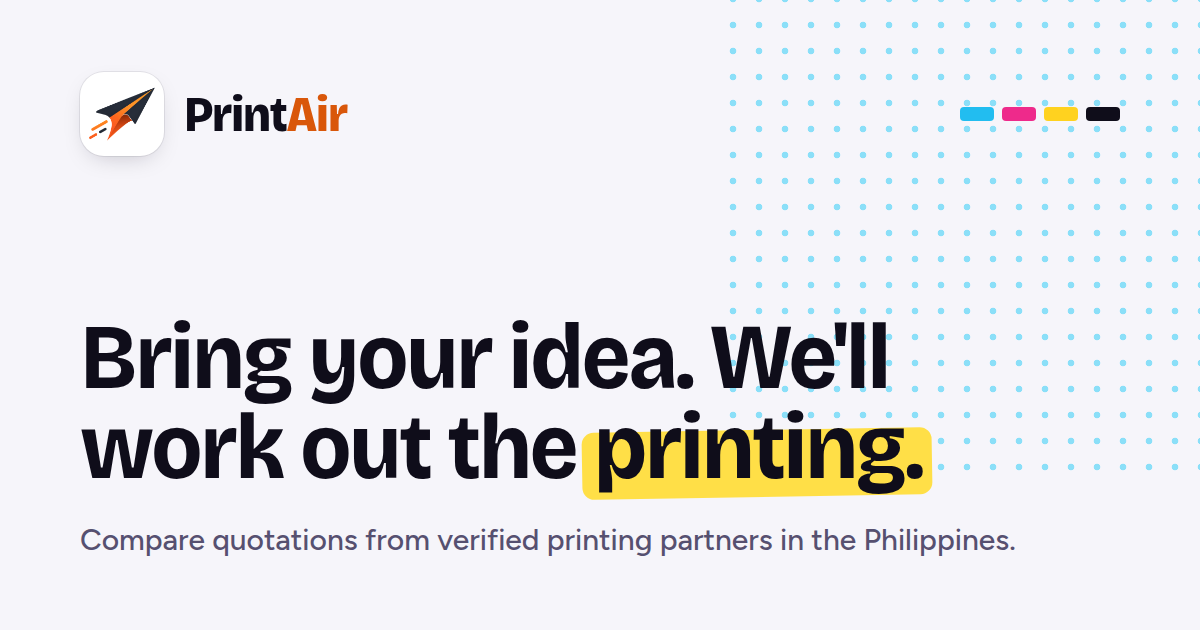
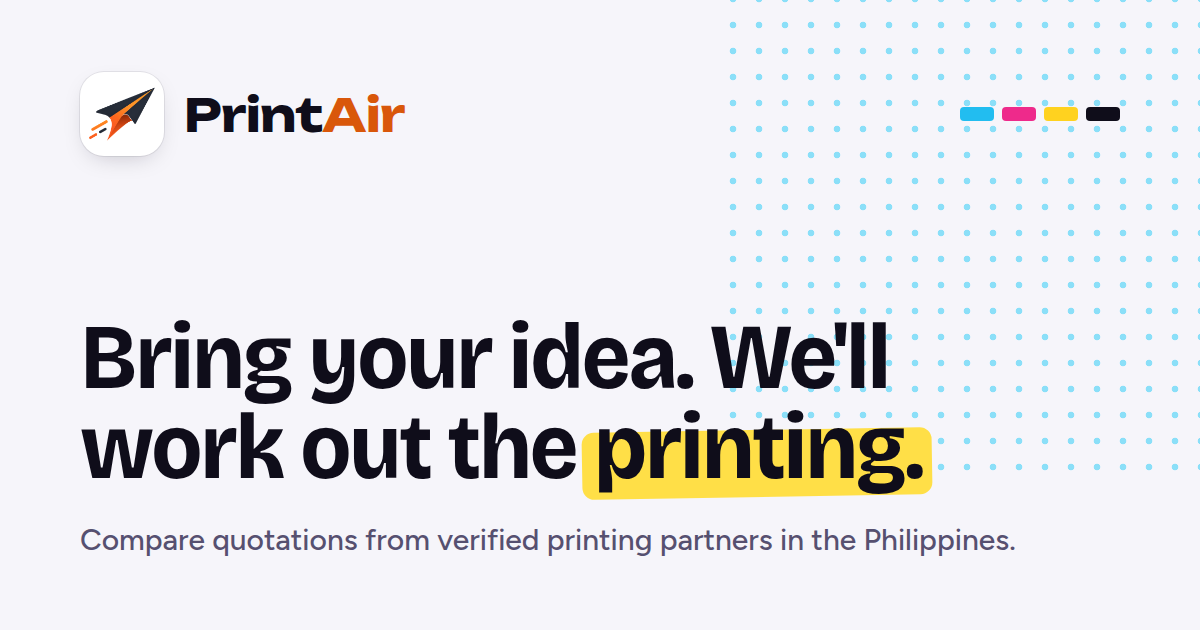
Wordmark: set the "PrintAir" logotype in Unbounded, fixed across both skins
The paper-plane mark is untouched -- only the type beside it changes. Unbounded's
cut corners echo the plane's folded paper better than the headline face did, and
as brand identity rather than a themable surface it now stays the same face under
Classic too, via a --font-wordmark variable declared once on :root and never
redefined in .classic. The share card lockup and preloaded fonts follow suit.

Claude-Session: https://claude.ai/code/session_01RcLXeEYriE6DvdzscKS89R

Changed region(s): [[0.1542, 0.1508, 0.3392, 0.2111]]

diff --git a/brand/share-card.html b/brand/share-card.html
@@ -5,6 +5,8 @@
 <style>
   @font-face { font-family: Bricolage; src: url('../node_modules/@fontsource-variable/bricolage-grotesque/files/bricolage-grotesque-latin-wdth-normal.woff2') format('woff2'); font-weight: 200 800; font-stretch: 75% 100%; }
   @font-face { font-family: Figtree; src: url('../node_modules/@fontsource-variable/figtree/files/figtree-latin-wght-normal.woff2') format('woff2'); font-weight: 300 900; }
+  /* The wordmark's own face (Marks.tsx), fixed across both skins — keep this in sync with it. */
+  @font-face { font-family: Unbounded; src: url('../node_modules/@fontsource-variable/unbounded/files/unbounded-latin-wght-normal.woff2') format('woff2'); font-weight: 200 900; }
   html, body { margin: 0; }
   body { width: 1200px; height: 630px; background: #f6f5fa; position: relative; overflow: hidden; font-family: Figtree, sans-serif; color: #0f0d1a; }
   .dots { position: absolute; right: -40px; top: -40px; width: 520px; height: 520px; background-image: radial-gradient(#7fdcf8 3.2px, transparent 3.6px); background-size: 26px 26px; opacity: .9; }
@@ -12,7 +14,7 @@
   .lockup { display: flex; align-items: center; gap: 20px; }
   .tile { width: 84px; height: 84px; border-radius: 24px; background: #fff; box-shadow: 0 8px 24px -10px rgba(15,13,26,.25), 0 0 0 1px rgba(15,13,26,.08); display: flex; align-items: center; justify-content: center; }
   .tile img { width: 78%; }
-  .word { font-family: Bricolage, sans-serif; font-weight: 800; font-size: 50px; letter-spacing: -0.03em; font-stretch: 88%; }
+  .word { font-family: Unbounded, sans-serif; font-weight: 700; font-size: 46px; letter-spacing: -0.01em; }
   .word span { color: #d9570a; }
   h1 { font-family: Bricolage, sans-serif; font-weight: 700; font-stretch: 92%; font-size: 92px; line-height: .98; letter-spacing: -0.03em; margin: auto 0 0; max-width: 900px; }
   h1 em { font-style: normal; position: relative; white-space: nowrap; }

diff --git a/tailwind.config.js b/tailwind.config.js
@@ -82,6 +82,8 @@ export default {
         display: ['var(--font-display)', 'ui-sans-serif', 'system-ui', 'sans-serif'],
         sans: ['var(--font-sans)', 'ui-sans-serif', 'system-ui', 'sans-serif'],
         mono: ['ui-monospace', 'SFMono-Regular', 'Menlo', 'monospace'],
+        // The "PrintAir" wordmark only (Marks.tsx). Not swapped by `.classic`: see --font-wordmark below.
+        wordmark: ['var(--font-wordmark)', 'var(--font-display)', 'ui-sans-serif', 'system-ui', 'sans-serif'],
       },
       colors: {
         white: 'rgb(var(--white-DEFAULT) / <alpha-value>)',
@@ -193,7 +195,14 @@ export default {
   plugins: [
     plugin(({ addBase }) =>
       addBase({
-        ':root': { ...vars(PROCESS), '--font-display': '"Bricolage Grotesque Variable"', '--font-sans': '"Figtree Variable"' },
+        // '--font-wordmark' is set once here, never inside '.classic': the "PrintAir" logotype is
+        // fixed brand identity, not a themable surface, so it stays the same face in every skin.
+        ':root': {
+          ...vars(PROCESS),
+          '--font-display': '"Bricolage Grotesque Variable"',
+          '--font-sans': '"Figtree Variable"',
+          '--font-wordmark': '"Unbounded Variable"',
+        },
         '.classic': { ...vars(CLASSIC), '--font-display': '"Fraunces Variable"', '--font-sans': '"Plus Jakarta Sans Variable"' },
         // After .classic on purpose: with both on, dark wins the colours and Classic keeps its fonts.
         '.dark, .dark .classic': { ...vars(DARK), 'color-scheme': 'dark', '--pip-navy': '#6b7488' },

diff --git a/vite.config.ts b/vite.config.ts
@@ -34,8 +34,9 @@ function appUrl(url: string): Plugin {
       order: 'post',
       handler(html, ctx) {
         // The app proper is loaded by a dynamic import (so demo mode can step in first), which hides
-        // it from the browser until the entry script has run. Announcing those files, and the two
-        // fonts every screen uses, lets them download alongside the entry script instead of after it.
+        // it from the browser until the entry script has run. Announcing those files, and the three
+        // fonts every screen uses (body, headline, and the wordmark's own face), lets them download
+        // alongside the entry script instead of after it — the logo is on screen from first paint.
         const files = Object.keys(ctx.bundle ?? {});
         const pick = (re: RegExp) => files.filter((f) => re.test(f));
         const tags = [
@@ -44,7 +45,7 @@ function appUrl(url: string): Plugin {
             attrs: { rel: 'modulepreload', href: `/${f}`, crossorigin: true },
             injectTo: 'head' as const,
           })),
-          ...pick(/assets\/(bricolage-grotesque-latin-wdth-normal|figtree-latin-wght-normal)-[\w-]+\.woff2$/).map((f) => ({
+          ...pick(/assets\/(bricolage-grotesque-latin-wdth-normal|figtree-latin-wght-normal|unbounded-latin-wght-normal)-[\w-]+\.woff2$/).map((f) => ({
             tag: 'link',
             attrs: { rel: 'preload', as: 'font', type: 'font/woff2', href: `/${f}`, crossorigin: true },
             injectTo: 'head' as const,

diff --git a/src/components/ui/Marks.tsx b/src/components/ui/Marks.tsx
@@ -59,12 +59,14 @@ export function Logo({
   return (
     <span className={`inline-flex items-center gap-2.5 ${className}`}>
       <LogoMark className={markClassName} tone={tone} />
+      {/* The wordmark's own face (Unbounded), fixed across both skins — see --font-wordmark in
+          tailwind.config.js. Its cut corners echo the plane's folded paper, which font-display
+          (Bricolage) doesn't. font-weight is set directly rather than with a font-bold utility so it
+          reads correctly at Unbounded's own weight, not Bricolage's. */}
       <span
         data-wordmark
-        className={`font-display text-[1.35rem] font-extrabold leading-none tracking-tight ${
-          tone === 'light' ? 'text-white' : 'text-ink-950'
-        }`}
-        style={{ fontVariationSettings: "'wdth' 88" }}
+        className={`font-wordmark text-[1.3rem] leading-none tracking-tight ${tone === 'light' ? 'text-white' : 'text-ink-950'}`}
+        style={{ fontWeight: 700 }}
       >
         Print<span style={{ color: tone === 'light' ? LOGO_ORANGE.onDark : LOGO_ORANGE.onLight }}>Air</span>
       </span>

diff --git a/src/styles/classic.css b/src/styles/classic.css
@@ -24,12 +24,15 @@
   font-optical-sizing: auto;
 }
 
-/* The wordmark is part of the logo, not a headline: it keeps its own face in every skin. */
+/* The wordmark is part of the logo, not a headline: it keeps its own face in every skin (see
+   --font-wordmark in tailwind.config.js, which .classic deliberately never redefines). This rule
+   only has to undo Classic's own font-family reset below, which would otherwise win by specificity
+   and inheritance for anything with .classic as an ancestor. */
 .classic [data-wordmark] {
-  font-family: 'Bricolage Grotesque Variable', ui-sans-serif, system-ui, sans-serif;
-  font-weight: 800;
-  letter-spacing: -0.025em;
-  font-variation-settings: 'wdth' 88;
+  font-family: 'Unbounded Variable', ui-sans-serif, system-ui, sans-serif;
+  font-weight: 700;
+  letter-spacing: -0.01em;
+  font-variation-settings: normal;
 }
 
 /* Small uppercase section label, in ember like the website's "PROJECT BUILDER". */

diff --git a/src/main.tsx b/src/main.tsx
@@ -7,6 +7,9 @@ import '@fontsource-variable/figtree';
 // time something on screen uses them.
 import '@fontsource-variable/fraunces/opsz.css';
 import '@fontsource-variable/plus-jakarta-sans';
+// The "PrintAir" wordmark's own typeface (Marks.tsx). Fixed across both skins on purpose — a
+// logotype is a piece of brand identity, not a themable surface, so it doesn't switch with Classic.
+import '@fontsource-variable/unbounded';
 import './index.css';
 import './styles/classic.css';
 import { initLook } from './lib/look';

diff --git a/docs/DESIGN-SYSTEM.md b/docs/DESIGN-SYSTEM.md
@@ -98,3 +98,10 @@ npm run build
 
 - **Header links** use the headline face (`font-display`, 15px, semibold, `ink-800`) with a magenta underline that draws in from the left on hover (`NAV_LINK` in `components/marketing/Chrome.tsx`). "Get the app" is an outlined magenta pill so it reads as an action, not a section.
 - **Hero picture** (`HeroArt` in `LandingPage.tsx`): three real photographs of print work (on press, checked, packed), stacked and drifting, each on an ink-coloured plate that peeks out behind it like a colour printed out of register; the quotation card and "In production" chip float on top. The owner asked for the website's floating-photo hero; this is that idea in the Process style. Photos are Pexels stock, decoration only, chosen without readable brand names; replace with partners' own photos when available. Desktop only: phones are served a 1-pixel image through `<picture>`, and data-saver connections get the plates without photos.
+
+## Wordmark typeface (2026-09-20)
+
+- The "PrintAir" wordmark (`Logo()` in `components/ui/Marks.tsx`, `data-wordmark`) is set in **Unbounded** (`@fontsource-variable/unbounded`, weight 700), not the headline face. The plane graphic itself is untouched — this only changes the type next to it.
+- It is fixed across both skins on purpose: a logotype is brand identity, not a themable surface, so it doesn't switch to Fraunces under Classic the way headlines do. Mechanically this is `--font-wordmark`, declared once on `:root` in `tailwind.config.js` and deliberately never redefined inside `.classic`; `classic.css`'s `.classic [data-wordmark]` rule only exists to undo Classic's own `font-family` reset, which would otherwise win by inheritance.
+- Unbounded has no width axis (unlike Bricolage's `wdth`), so the wordmark sets `font-weight: 700` directly with no `fontVariationSettings`.
+- The share card (`brand/share-card.html` → `public/share-card.png`) uses the same face for its "PrintAir" lockup; regenerate it the same way as before (serve the file locally, screenshot at 1200×630) after any further change here.
